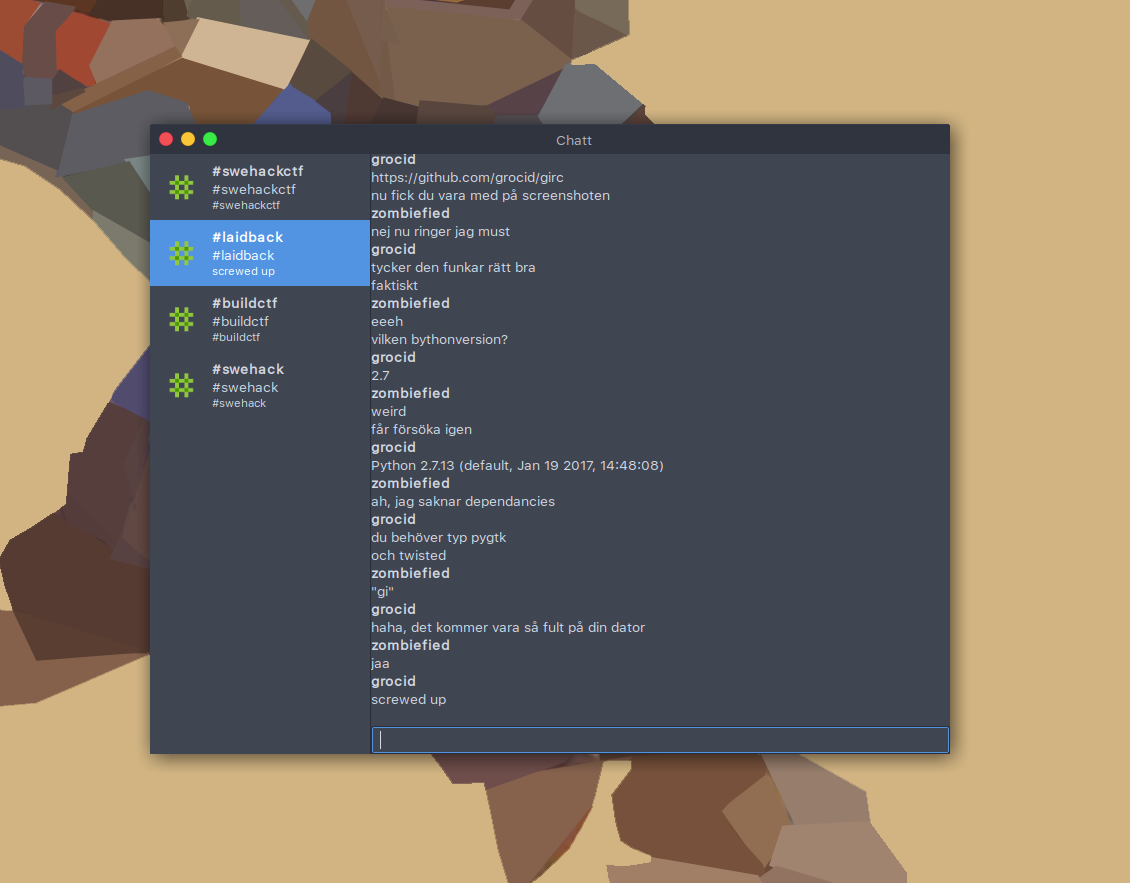
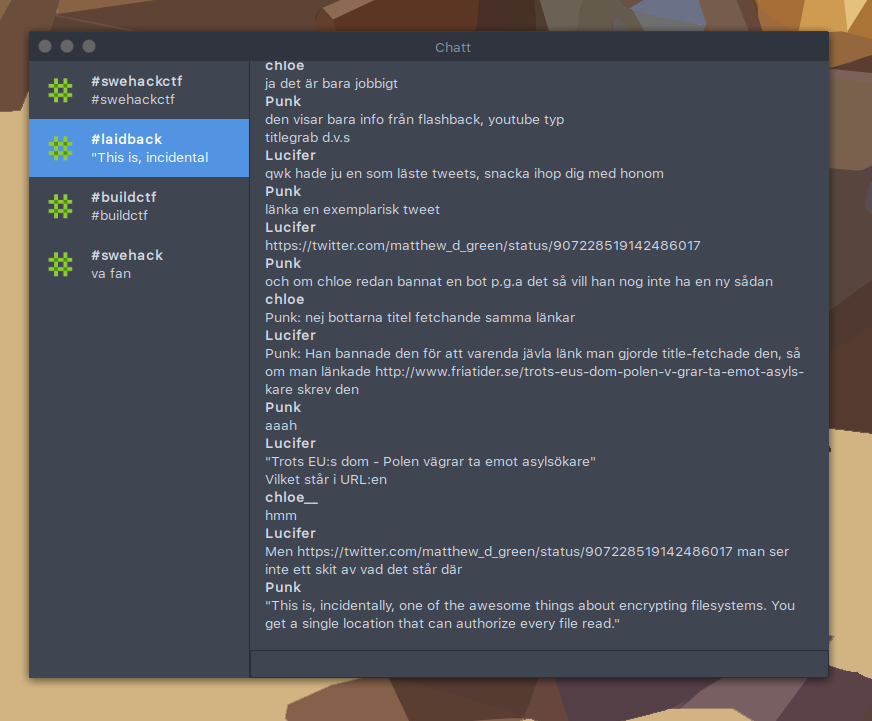
new fixed

diff --git a/girc.py b/girc.py
@@ -6,11 +6,13 @@ gi.require_version('Gtk', '3.0')
 import os
 import json
 import threading
-import notify2
 
 from gi.repository import Gtk
 from gi.repository import Gdk
-from gi.repository import Gio, GObject, Pango
+from gi.repository import Gio
+from gi.repository import GObject
+from gi.repository import Pango
+
 from gi.repository.GdkPixbuf import Pixbuf
 
 from twisted.internet import gtk3reactor
@@ -27,33 +29,22 @@ from irc import *
 
 class Interface(Gtk.Window):
 
-    channel = ""
+    channel = None
     channel_buffers = {}
     channel_tabs = {}
     last_user = {}
     user_tag = {}
 
     def __init__(self, title):
+        
+        # Setup the window
         Gtk.Window.__init__(self, title="Chatt")
         icontheme = Gtk.IconTheme.get_default()
         self.set_icon(icontheme.load_icon("applications-internet", 64, 0))
         self.set_default_size(800, 600)
         self.init_window(title)
 
-    def __html_encode(self, s):
-        escapeChars = (
-            ('>', '&gt;'),
-            ('<', '&lt;'),
-            ("'", '&#39;'),
-            ('"', '&quot;'),
-            ('&', '&amp;')
-        )
-        for char in escapeChars:
-            s = s.replace(char[0], char[1])
-        return s
-
     def init_window(self, title):
-
 
         # Create basic layout
         layout = Gtk.Paned()
@@ -79,14 +70,14 @@ class Interface(Gtk.Window):
         self.add(layout)
 
     def update_channel(self, _, row):
-        self.channel = row.channel
-        self.chat.set_caption(row.channel, row.topic)
-        self.chat.set_buffer(self.channel_buffers[self.channel])
+        # Update current channel
+        try:
+            self.channel = row.channel
+            self.chat.set_buffer(self.channel_buffers[self.channel])
+        except:
+            pass
 
     def add_channel(self, channel):
-
-        if self.channel == None:
-            self.channel = channel
 
         # Create buffer and a text tag
         buf = Gtk.TextBuffer()
@@ -96,25 +87,45 @@ class Interface(Gtk.Window):
         # Update content
         c = Channel()
         c.set_content(channel, channel, channel)
+        
+        # Check if it is not a channel
         if not channel.startswith("#"):
             c.set_symbol("user.png")
-
         self.channel_tabs[channel] = c
         self.sidebar.add(c)
 
+        # If no channel is current, set this to be.
+        if self.channel == None:
+            self.channel = channel
+            self.sidebar.content.select_row(c)
+
     def leave_channel(self, channel):
-        print "LEFT", channel
+        
+        # Clean up UI
+        if self.channel == channel:
+            if len(self.channel_tabs) > 0:
+                new = self.channel_tabs.keys()[0]
+                self.sidebar.content.select_row(self.channel_tabs[new])
+            else:
+                self.channel = None
+
+        # Clear sidebar and buffer entries
+        current_tab = self.channel_tabs[channel]
+        self.sidebar.content.remove(current_tab)
+        del self.channel_buffers[channel]
 
     def get_channel(self):
+
+        # Returns the current channel
         return self.channel
 
     def update_chat(self, user, channel, text):
+
         # Check if channel is there
         if channel not in self.channel_buffers:
             self.add_channel(channel)
 
         # Get users
-        
         buf = self.channel_buffers[channel]
         if self.last_user.get(channel) != user:
             buf.insert_with_tags(buf.get_end_iter(), "{}\n".format(user), self.user_tag[channel])
@@ -148,8 +159,6 @@ if __name__ == "__main__":
         Gtk.main_quit()
         reactor.stop()
         os._exit(0)
-
-    notify2.init('Chat')
 
     # Init window
     win = Interface(description)

diff --git a/ui.py b/ui.py
@@ -2,6 +2,7 @@ import gi
 gi.require_version('Gtk', '3.0')
 
 from gi.repository import Gtk
+from gi.repository import Gdk
 
 class Channel(Gtk.ListBoxRow):
     
@@ -9,18 +10,39 @@ class Channel(Gtk.ListBoxRow):
 
     def __init__(self, *args, **kwds):
         super(Channel, self).__init__(*args, **kwds)
+
+        """
+            This element is organized as follows:
+
+            +--------------------------------+
+            |        | caption               |
+            | symbol |-----------------------+
+            |        | text                  |
+            +--------------------------------+
+            
+        """
+
         # Create elements
         self.symbol = Gtk.Image()
         self.symbol.set_from_file("irc.png")
         self.caption = Gtk.Label()
         self.caption.set_justify(Gtk.Justification.LEFT)
-
+        self.text = Gtk.Label()
+        self.text.set_justify(Gtk.Justification.LEFT)
+        
         # Fix layout
         inner = Gtk.HBox()
         inner.pack_start(self.symbol, False, False, 15)
-        inner.pack_start(self.caption, False, False, 0)
+        innermost = Gtk.VBox()
+        tmp = Gtk.HBox() # This is a hack to get left justification
+        tmp.pack_start(self.caption, False, False, 0)
+        innermost.pack_start(tmp, True, True, 0)
+        tmp = Gtk.HBox()
+        tmp.pack_start(self.text, False, False, 0)
+        innermost.pack_start(tmp, True, True, 0)
+        inner.pack_start(innermost, True, True, 0)
         outer = Gtk.VBox()
-        outer.pack_start(inner, True, True, 6)
+        outer.pack_start(inner, False, False, 9)
 
         # Add to layout
         self.add(outer)
@@ -32,9 +54,8 @@ class Channel(Gtk.ListBoxRow):
         self.channel = channel
         self.topic = topic
         self.lastmessage = lastmessage
-        self.caption.set_markup("<b>{}</b>\n{}\n<small>{}</small>".format(self.channel, 
-                                                                          self.topic, 
-                                                                          self.lastmessage))
+        self.caption.set_markup("<b>{}</b>".format(self.channel))
+        self.text.set_text(self.lastmessage)
 
 class Sidebar():
     def __init__(self):
@@ -54,35 +75,23 @@ def changed(vadjust):
 class ChatWindow():
     def __init__(self, channel, topic):
         
-        header = Gtk.VBox()
-
         # Content view
         self.content = Gtk.TextView()
         self.content.set_property('editable', False)
-        self.content.set_wrap_mode(True)
+        self.content.set_wrap_mode(Gtk.WrapMode.WORD)
         self.content.set_cursor_visible(False)
+        self.content.set_right_margin(15)
+        self.content.set_left_margin(15)
+        self.content.set_top_margin(11)
         self.textbuffer = self.content.get_buffer()
-        
-        # Header
-        #self.label = Gtk.Label()
-        #self.set_caption(channel, topic)
-        #self.label.set_justify(Gtk.Justification.CENTER)
+        self.textbuffer.set_text("\n")
         
         # Wrap in scrolled window
         self.view = Gtk.ScrolledWindow()
         self.view.get_vscrollbar().set_visible(False)
         self.view.add(self.content)
-        
-        # Put in context
-        #header.pack_start(self.label, False, False, 5)
-        header.pack_start(self.content, True, True, 0)
-        self.view.get_vadjustment().connect("changed", changed)
-       
 
-    def set_caption(self, channel, topic):
-        self.channel = channel
-        self.topic = topic
-        #self.label.set_markup("<b>{}</b>\n{}".format(channel, topic))
+        self.view.get_vadjustment().connect("changed", changed)
 
     def set_text(self, text):
         self.textbuffer.set_text(text)
